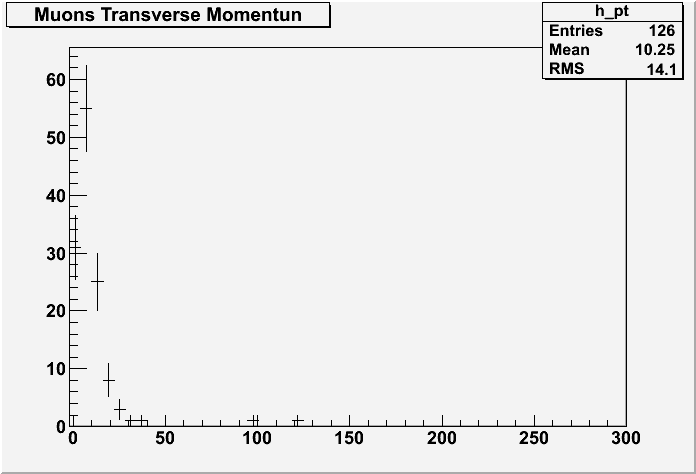
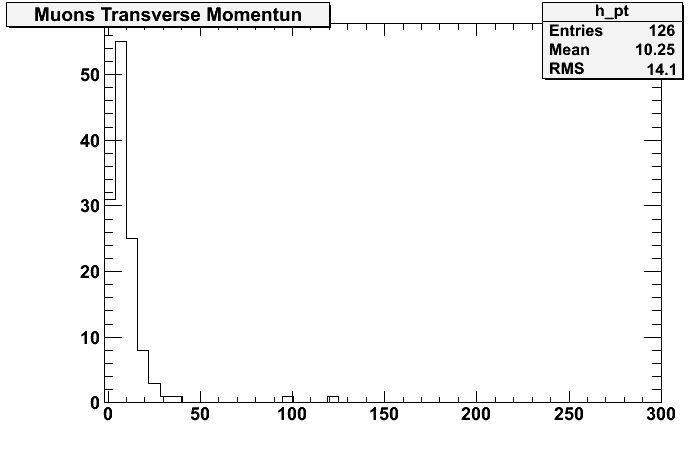
display TCanvas

diff --git a/Histos.py b/Histos.py
@@ -4,13 +4,13 @@ import getopt
 from DataFormats.FWLite import Events, Handle
 from Muon import Muon
 from readTTree import readTTree
-from Selector import Selector
+#from Selector import Selector
 
 from ROOT import gROOT, TH1F, TGraph
 import matplotlib as plt
 import numpy
 
-def main():
+#def main():
 #class Histos(object)
 #	"""
 #	Draw Histograms
@@ -18,21 +18,45 @@ def main():
 #
 #	def __init__(self):
 
-		#fig=plt.figure()
-		file=ROOT.TFile("histos.root","read")
-		Gfile=ROOT.TFile("histos_good.root", "read")
-		
-		histo=file.Get('self.Muon_pt')
+
+file=ROOT.TFile("histos.root","read")
+Gfile=ROOT.TFile("histos_good.root", "read")
+
+histo=file.Get('h_pt')
+
+ROOT.TCanvas.__init__._creates = False
+canvas = ROOT.TCanvas()
+
+ROOT.SetOwnership(canvas, False)
+	
+canvas.cd()
+canvas.Range(-68.75, -7.5, 856.25, 42.5)
+canvas.SetFillColor(0)
+canvas.SetBorderMode(0)
+canvas.SetBorderSize(2)
+canvas.SetTickx(1)
+canvas.SetTicky(1)
+canvas.SetLeftMargin(0.15)
+canvas.SetRightMargin(0.05)
+canvas.SetTopMargin(0.05)
+canvas.SetBottomMargin(0.15)
+canvas.SetFrameFillStyle(0)
+canvas.SetFrameBorderMode(0)
+canvas.SetFrameFillStyle(0)
+canvas.SetFrameBorderMode(0)
+canvas._showGuideLines = False
 
 
-		histo.Print()	
-		histo.SetDirectory(gROOT)
-		histo.Sumw2()
-		histo.Plot()
-		#histo.Draw()	
+histo.Draw()
+plot = {'canvas': canvas}
 
-		#plt.Show()
+canvas.Update()
+canvas.Draw()		
+
+canvas.SaveAs("h_pt.png")
+
     		
+ROOT.gApplication.Run()
 
-if __name__=="__main__":
-	main()
+#if __name__=="__main__":
+#	main()
